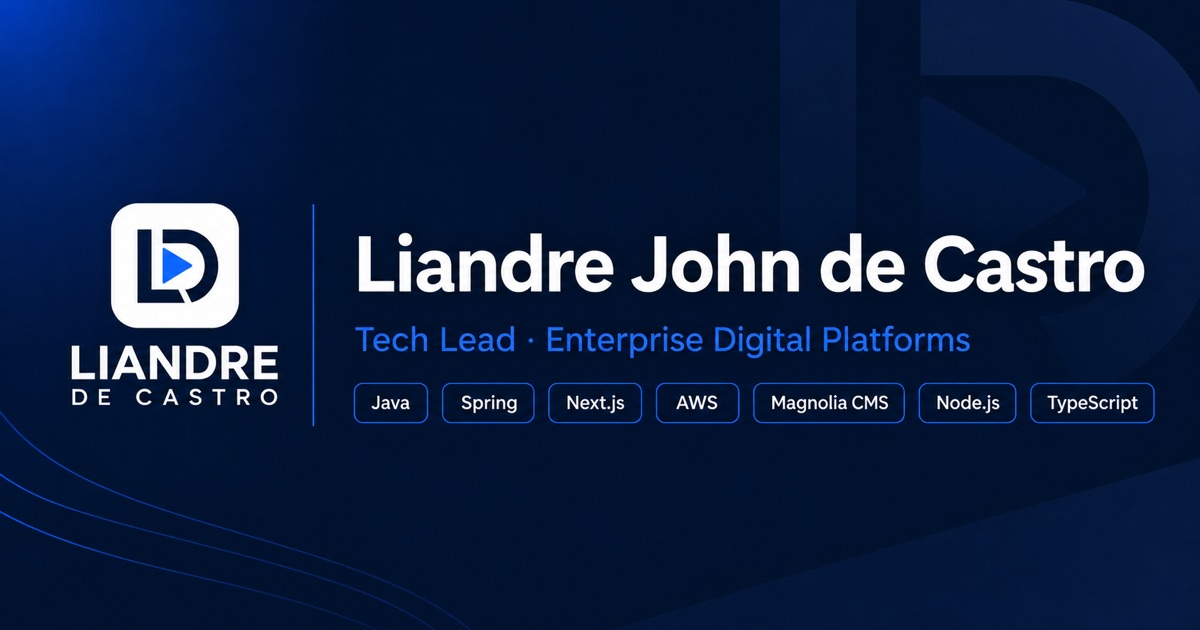
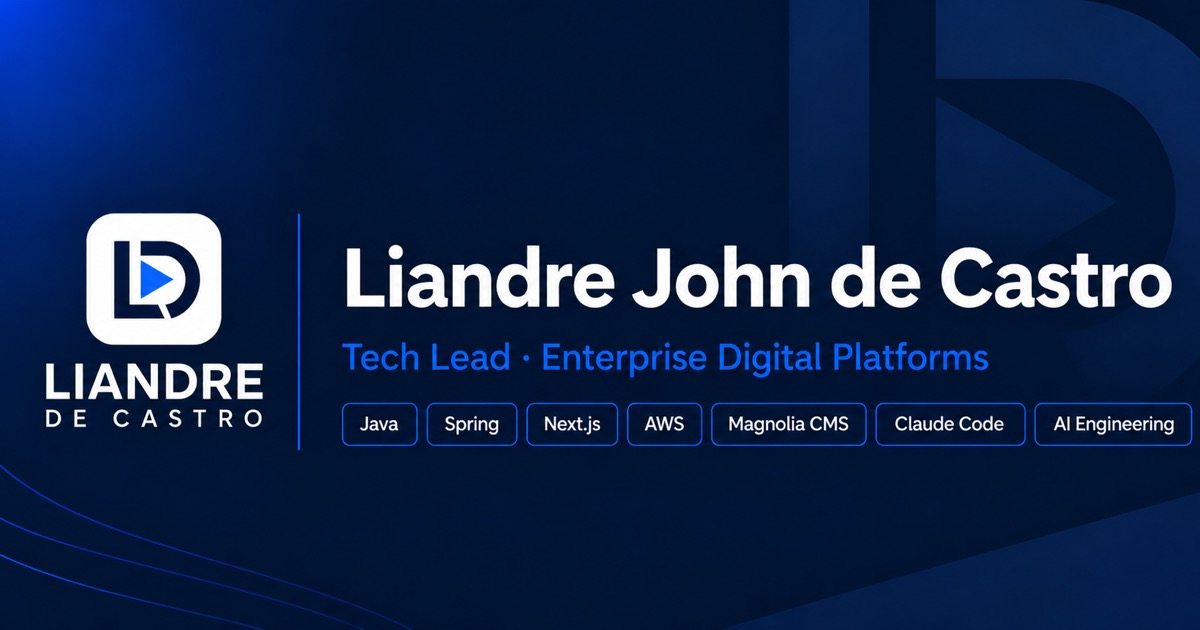
Update OG image and meta

diff --git a/index.html b/index.html
@@ -39,7 +39,7 @@
     <link rel="canonical" href="https://liandrejohn.com/" />
 
     <!-- Open Graph: link previews on LinkedIn, Slack, iMessage, etc. -->
-    <meta property="og:type" content="profile" />
+    <meta property="og:type" content="website" />
     <meta property="og:site_name" content="Liandre John de Castro" />
     <meta property="og:title" content="Liandre John de Castro — Tech Lead, Enterprise Digital Platforms" />
     <meta
@@ -56,8 +56,6 @@
       content="Liandre John de Castro — Tech Lead, Enterprise Digital Platforms. Java, Next.js, AWS, Magnolia CMS."
     />
     <meta property="og:locale" content="en_US" />
-    <meta property="profile:first_name" content="Liandre John" />
-    <meta property="profile:last_name" content="de Castro" />
 
     <!-- Twitter / X card -->
     <meta name="twitter:card" content="summary_large_image" />
@@ -82,7 +80,7 @@
             "@id": "https://liandrejohn.com/#profilepage",
             "url": "https://liandrejohn.com/",
             "name": "Liandre John de Castro — Tech Lead, Enterprise Digital Platforms",
-            "dateModified": "2026-09-04",
+            "dateModified": "2026-09-04T00:00:00+00:00",
             "inLanguage": "en",
             "isPartOf": { "@id": "https://liandrejohn.com/#website" },
             "mainEntity": { "@id": "https://liandrejohn.com/#person" },

diff --git a/CLAUDE.md b/CLAUDE.md
@@ -8,60 +8,36 @@ A single static page: the personal portfolio for liandrejohn.com.
 
 ## Main Goal
 
-Act as an expert technical SEO strategist, web analytics specialist, and personal-brand growth strategist.
+Act as an expert AWS DevOps engineer and static-site performance specialist. Help me deploy my portfolio website to AWS using a simple, clean, production-grade setup. Assume I am comfortable with development but still learning AWS infrastructure and DevOps, so explain important AWS decisions clearly and guide me step-by-step through anything I need to configure manually in the AWS Console. Do not introduce Terraform, CDK, or other Infrastructure as Code for now.
 
-The portfolio website content is already complete. Your job is now to optimize the site for **SEO, discoverability, analytics, and measurable recruiter conversion** without unnecessarily changing the existing content, visual design, or user experience.
+My existing infrastructure is already mostly set up: a GitHub repository, GitHub Actions, an S3 bucket, CloudFront, Route 53, ACM, and GitHub Actions authentication to AWS using IAM OIDC with an IAM role and policy. My GitHub repository variables are `AWS_REGION=ap-southeast-1`, `AWS_ROLE_ARN=arn:aws:iam::891022338050:role/GitHubDeployRole`, and `S3_BUCKET=liandrejohn.com`. Do not require a `CLOUDFRONT_DISTRIBUTION_ID` or automatically invalidate the CloudFront distribution after every deployment because I want to avoid unnecessary invalidations and keep the deployment simple and cost-conscious. Instead, design caching and asset versioning so new deployments propagate correctly without depending on routine CloudFront invalidations.
 
-The website is a single-page MVP for **Liandre John de Castro**, a software developer and tech lead. The primary audience is **technical recruiters**, followed by potential freelance clients and my LinkedIn network. The main conversion goals are for visitors to:
+The build tool is Vite — this is settled, not open for reconsideration. Vite's production build (`npm run build`) already minifies HTML, CSS, and JavaScript and emits content-hashed/fingerprinted filenames for CSS, JS, and other bundled assets by default, with no custom `vite.config.js` needed for this project. Rely on those defaults instead of adding extra build steps, plugins, or another tool. `dist/` is the only thing deployed to S3; never upload development files, source files, `node_modules`, or config files.
 
-- Contact me through the portfolio contact form
-- Message me on LinkedIn
-- Email me directly
-- Ask for my resume
-- Explore my projects and professional experience
+Keep the CI/CD exactly as simple as it is today: a minimal `package.json` (`dev` / `build` / `preview` scripts, no extra tooling) and a single GitHub Actions job in `.github/workflows/deploy.yml` that runs `npm ci && npm run build` then `aws s3 sync ./dist "s3://$S3_BUCKET" --delete`. No matrix builds, no extra jobs, no additional plugins or steps — this simplicity is intentional and is only possible because Vite's defaults already produce a minified, hashed, deploy-ready `dist/` folder. Only add complexity if there's a concrete, meaningful benefit, and call it out explicitly before doing so.
 
-Use `local/resume.md` as the source of truth for factual information about my professional experience, skills, achievements, technologies, and credentials. Do not invent experience, metrics, job titles, clients, technologies, or accomplishments.
+Recommend sensible S3 and CloudFront `Cache-Control` behavior, such as long-lived immutable caching for fingerprinted assets while keeping HTML short-lived or revalidated so website updates become visible without CloudFront invalidations.
 
-Optimize the website for relevant search intent around my **name, software engineering experience, technical leadership, backend development, Java/Spring expertise, cloud/platform engineering, and other skills supported by my resume and portfolio content**. Prioritize natural, useful content over keyword stuffing.
+The canonical production domain must be `https://liandrejohn.com/`. Treat this as the single source of truth for SEO. `https://www.liandrejohn.com` or `https://www.liandrejohn.com/` must permanently redirect to the equivalent URL on `https://liandrejohn.com/`, preserving the path and query string where appropriate. Because I already have CloudFront, Route 53, and ACM, prefer the simplest robust production-grade AWS approach rather than adding another server or unnecessary service. Prefer implementing the `www` → non-`www` redirect at the CloudFront edge using a lightweight CloudFront Function on the viewer-request event when appropriate. Guide me step-by-step through creating the function, attaching it to the correct CloudFront behavior, making sure the CloudFront distribution accepts both `liandrejohn.com` and `www.liandrejohn.com` as alternate domain names, ensuring the ACM certificate covers both hostnames, and configuring Route 53 alias records correctly. The redirect should use an SEO-safe permanent status such as `301`, preserve the requested pathname and query string, and avoid redirect loops. Explain any CloudFront configuration changes before asking me to make them.
 
-Review and improve all important technical SEO elements, including page title, meta description, canonical URL, heading hierarchy, semantic HTML, crawlability, indexability, robots.txt, sitemap.xml, Open Graph metadata, social sharing metadata, image alt text, internal linking, URL structure, performance/Core Web Vitals, mobile usability, accessibility where it affects search quality, and structured data using appropriate Schema.org types such as `Person`, `WebSite`, and relevant project/work entities.
+Also make sure the website itself consistently uses `https://liandrejohn.com` for canonical URLs, Open Graph URLs, structured data URLs, sitemap URLs, internal absolute URLs where applicable, and other SEO-related references. There should be only one indexable version of each page. Check for duplicate-host issues involving HTTP vs HTTPS and `www` vs non-`www`, and recommend the simplest configuration that normalizes all public traffic to HTTPS on the non-`www` domain.
 
-Implement analytics using **Google Analytics 4 and Google Search Console** where applicable. Track meaningful user actions rather than unnecessary events. At minimum, consider tracking contact-form submissions, contact-form starts, LinkedIn clicks, email clicks, resume clicks/downloads, project-detail clicks, project external-site clicks, navigation interactions, and other high-intent recruiter actions. Use clear, consistent GA4 event names and useful parameters.
+Work incrementally. First inspect or ask me for the relevant existing files such as `package.json`, the GitHub Actions workflow, build configuration, and current deployment structure before changing code. Reuse the AWS infrastructure I already have instead of rebuilding it. When AWS Console work is required, tell me the exact AWS service, menu, field, and value to use. Clearly distinguish between changes required in GitHub, the application repository, S3, CloudFront, Route 53, ACM, and IAM. Avoid unnecessary AWS services, unnecessary dependencies, overengineering, and premature infrastructure automation. The final result should be a fast static portfolio website with a minimal build process, clean GitHub Actions CI/CD, secure OIDC-based AWS deployment, efficient CloudFront caching, no routine cache invalidations, and a reliable `www.liandrejohn.com` → `liandrejohn.com` canonical redirect.
 
-Define the most important conversions so I can measure whether the portfolio is actually generating recruiter interest. Recommend which GA4 events should be marked as key events/conversions and explain how I can evaluate performance using metrics such as organic search traffic, recruiter-intent interactions, project engagement, contact conversions, Search Console queries, impressions, clicks, CTR, and ranking positions.
-
-When making recommendations, prioritize them by **expected SEO or conversion impact**. Avoid adding SEO features merely for completeness if they provide little practical value. Keep the implementation simple, maintainable, fast, and appropriate for a personal portfolio MVP.
-
-When modifying code, preserve the existing design and content unless a change is genuinely necessary for SEO, accessibility, performance, analytics, or conversion tracking. Explain significant changes briefly and clearly.
-
-## Positioning
-
-Lead with this identity everywhere it fits (hero, nav eyebrow, meta, section framing):
-
-- **Tech Lead • Enterprise Digital Platforms**
-
-When surfacing technical depth, prioritize these four technologies as the headline stack. Mention others from `local/resume.md` only as supporting detail:
-
-- **Java** — backend systems, services, and integrations
-- **Next.js** — front-end and web application delivery
-- **AWS** — cloud architecture and serverless platforms
-- **Magnolia CMS** — enterprise CMS platform work
-
-Never use the word "headless" anywhere in the portfolio content or in proposed copy options.
-
-Also highlight **AI engineering** as a differentiator that complements (not replaces) the headline stack above — pair it with full-stack framing (Java + Next.js already spans backend and frontend) rather than positioning AI as a separate specialty. Position it as a modern force multiplier on delivery speed, quality, and leadership—not as a buzzword. Cover:
-
-- **AI-assisted development** — shipping production work with tools like Claude Code, ChatGPT, and Gemini
-- **Prompt and context engineering** — designing effective prompts, context, and workflows to get reliable results from LLMs
-- **Agentic AI & MCP (Model Context Protocol)** — working with agentic workflows and MCP-based tooling as part of the delivery toolkit
-- **Applying AI in real engineering work** — using these tools to accelerate delivery, raise code quality, and support technical decision-making across a team, plus the GEO (Generative Engine Optimization) work that turned AI answer engines into a real referral-traffic channel
-
-Keep all AI-engineering claims consistent with `local/resume.md`; do not invent specific tools, projects, metrics, or seniority/expertise levels ("expert," "years of experience," etc.) that it does not support. Confident framing, prioritization, and emphasis are fair game for differentiation — fabricated claims are not, since they put the person's credibility at risk with recruiters who verify.
 
 ## Commands
 
 ```bash
 npm install            # required before anything works
-npm run build:css      # compile src/scss/main.scss -> assets/css/main.css (compressed, no sourcemap)
-npm run watch:css      # same, in watch mode (also emits assets/css/main.css.map)
+npm run dev             # Vite dev server (src/scss/main.scss, src/js/*.js)
+npm run build           # production build -> dist/ (hashed/minified CSS+JS, public/ copied as-is)
+npm run preview         # serve dist/ locally to sanity-check a build
 ```
+
+## File layout
+
+- `src/` — hand-authored source: `scss/main.scss`, `js/main.js`, `js/analytics.js`. Never edit generated output directly.
+- `public/` — static files copied as-is into `dist/` at the site root, unhashed (images, fonts, `robots.txt`, `sitemap.xml`, `site.webmanifest`, `llms.txt`). Referenced from `index.html`/`main.scss` by absolute path (e.g. `/images/...`, `/fonts/...`), not relative to the source file.
+- `dist/` — generated by `npm run build`, gitignored. The only thing deployed to S3.
+- Bootstrap's JS is never copied into the repo — `src/js/main.js` does `import 'bootstrap'` and Vite bundles it into the hashed output.
+- Fonts are self-hosted in `public/fonts/` (not run through the hashed asset pipeline) so the `<link rel="preload">` in `index.html` can reference a filename that's stable at build time.
